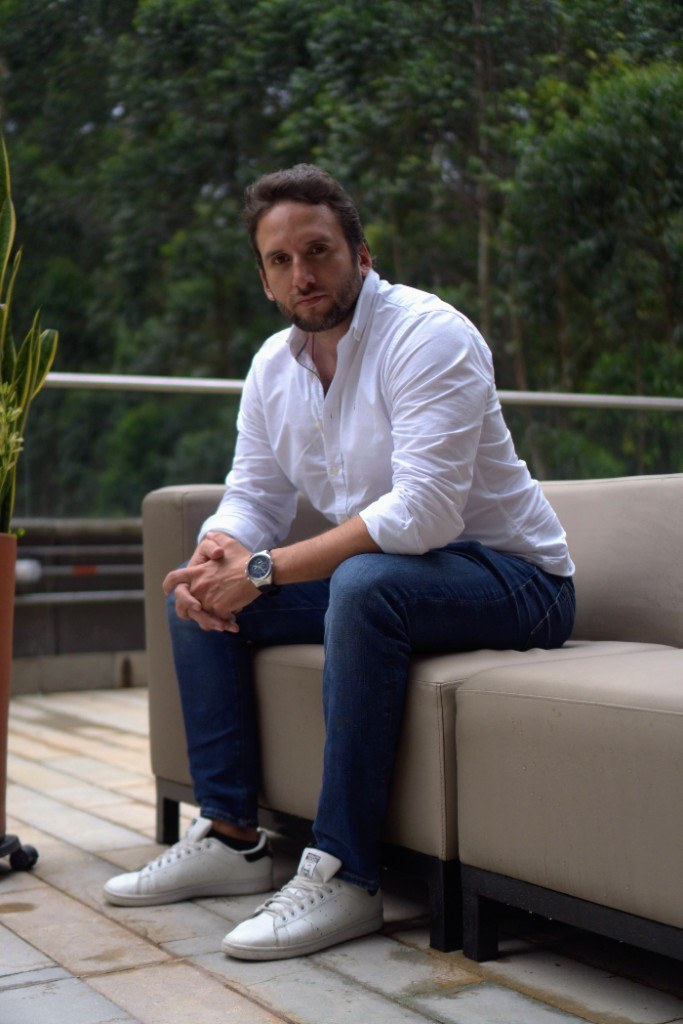
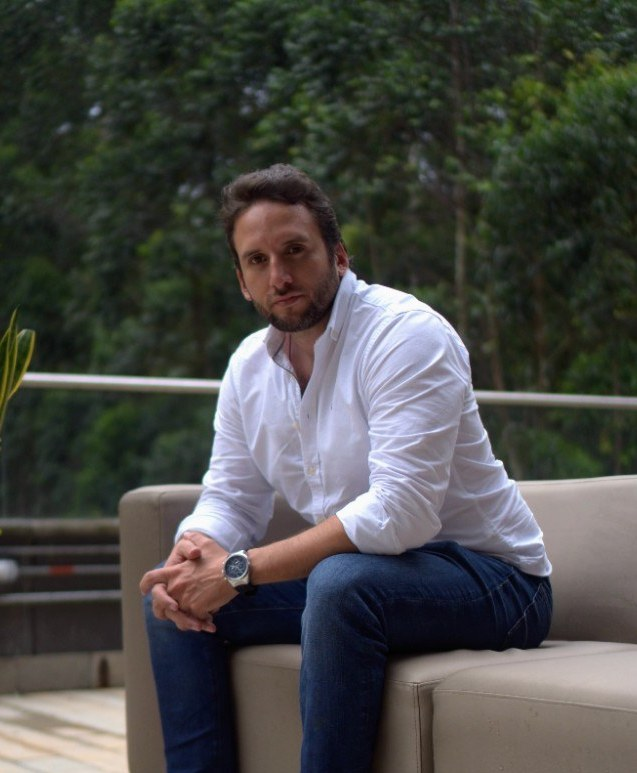
Crop the About portrait so the shoes sit out of frame.

diff --git a/app/about/page.tsx b/app/about/page.tsx
@@ -78,8 +78,8 @@ export default function AboutPage() {
             <Image
               src="/images/jp-about.jpg"
               alt="Juan Pablo Ramirez"
-              width={683}
-              height={1024}
+              width={637}
+              height={773}
               priority
               className="rounded-xl border border-border"
             />
